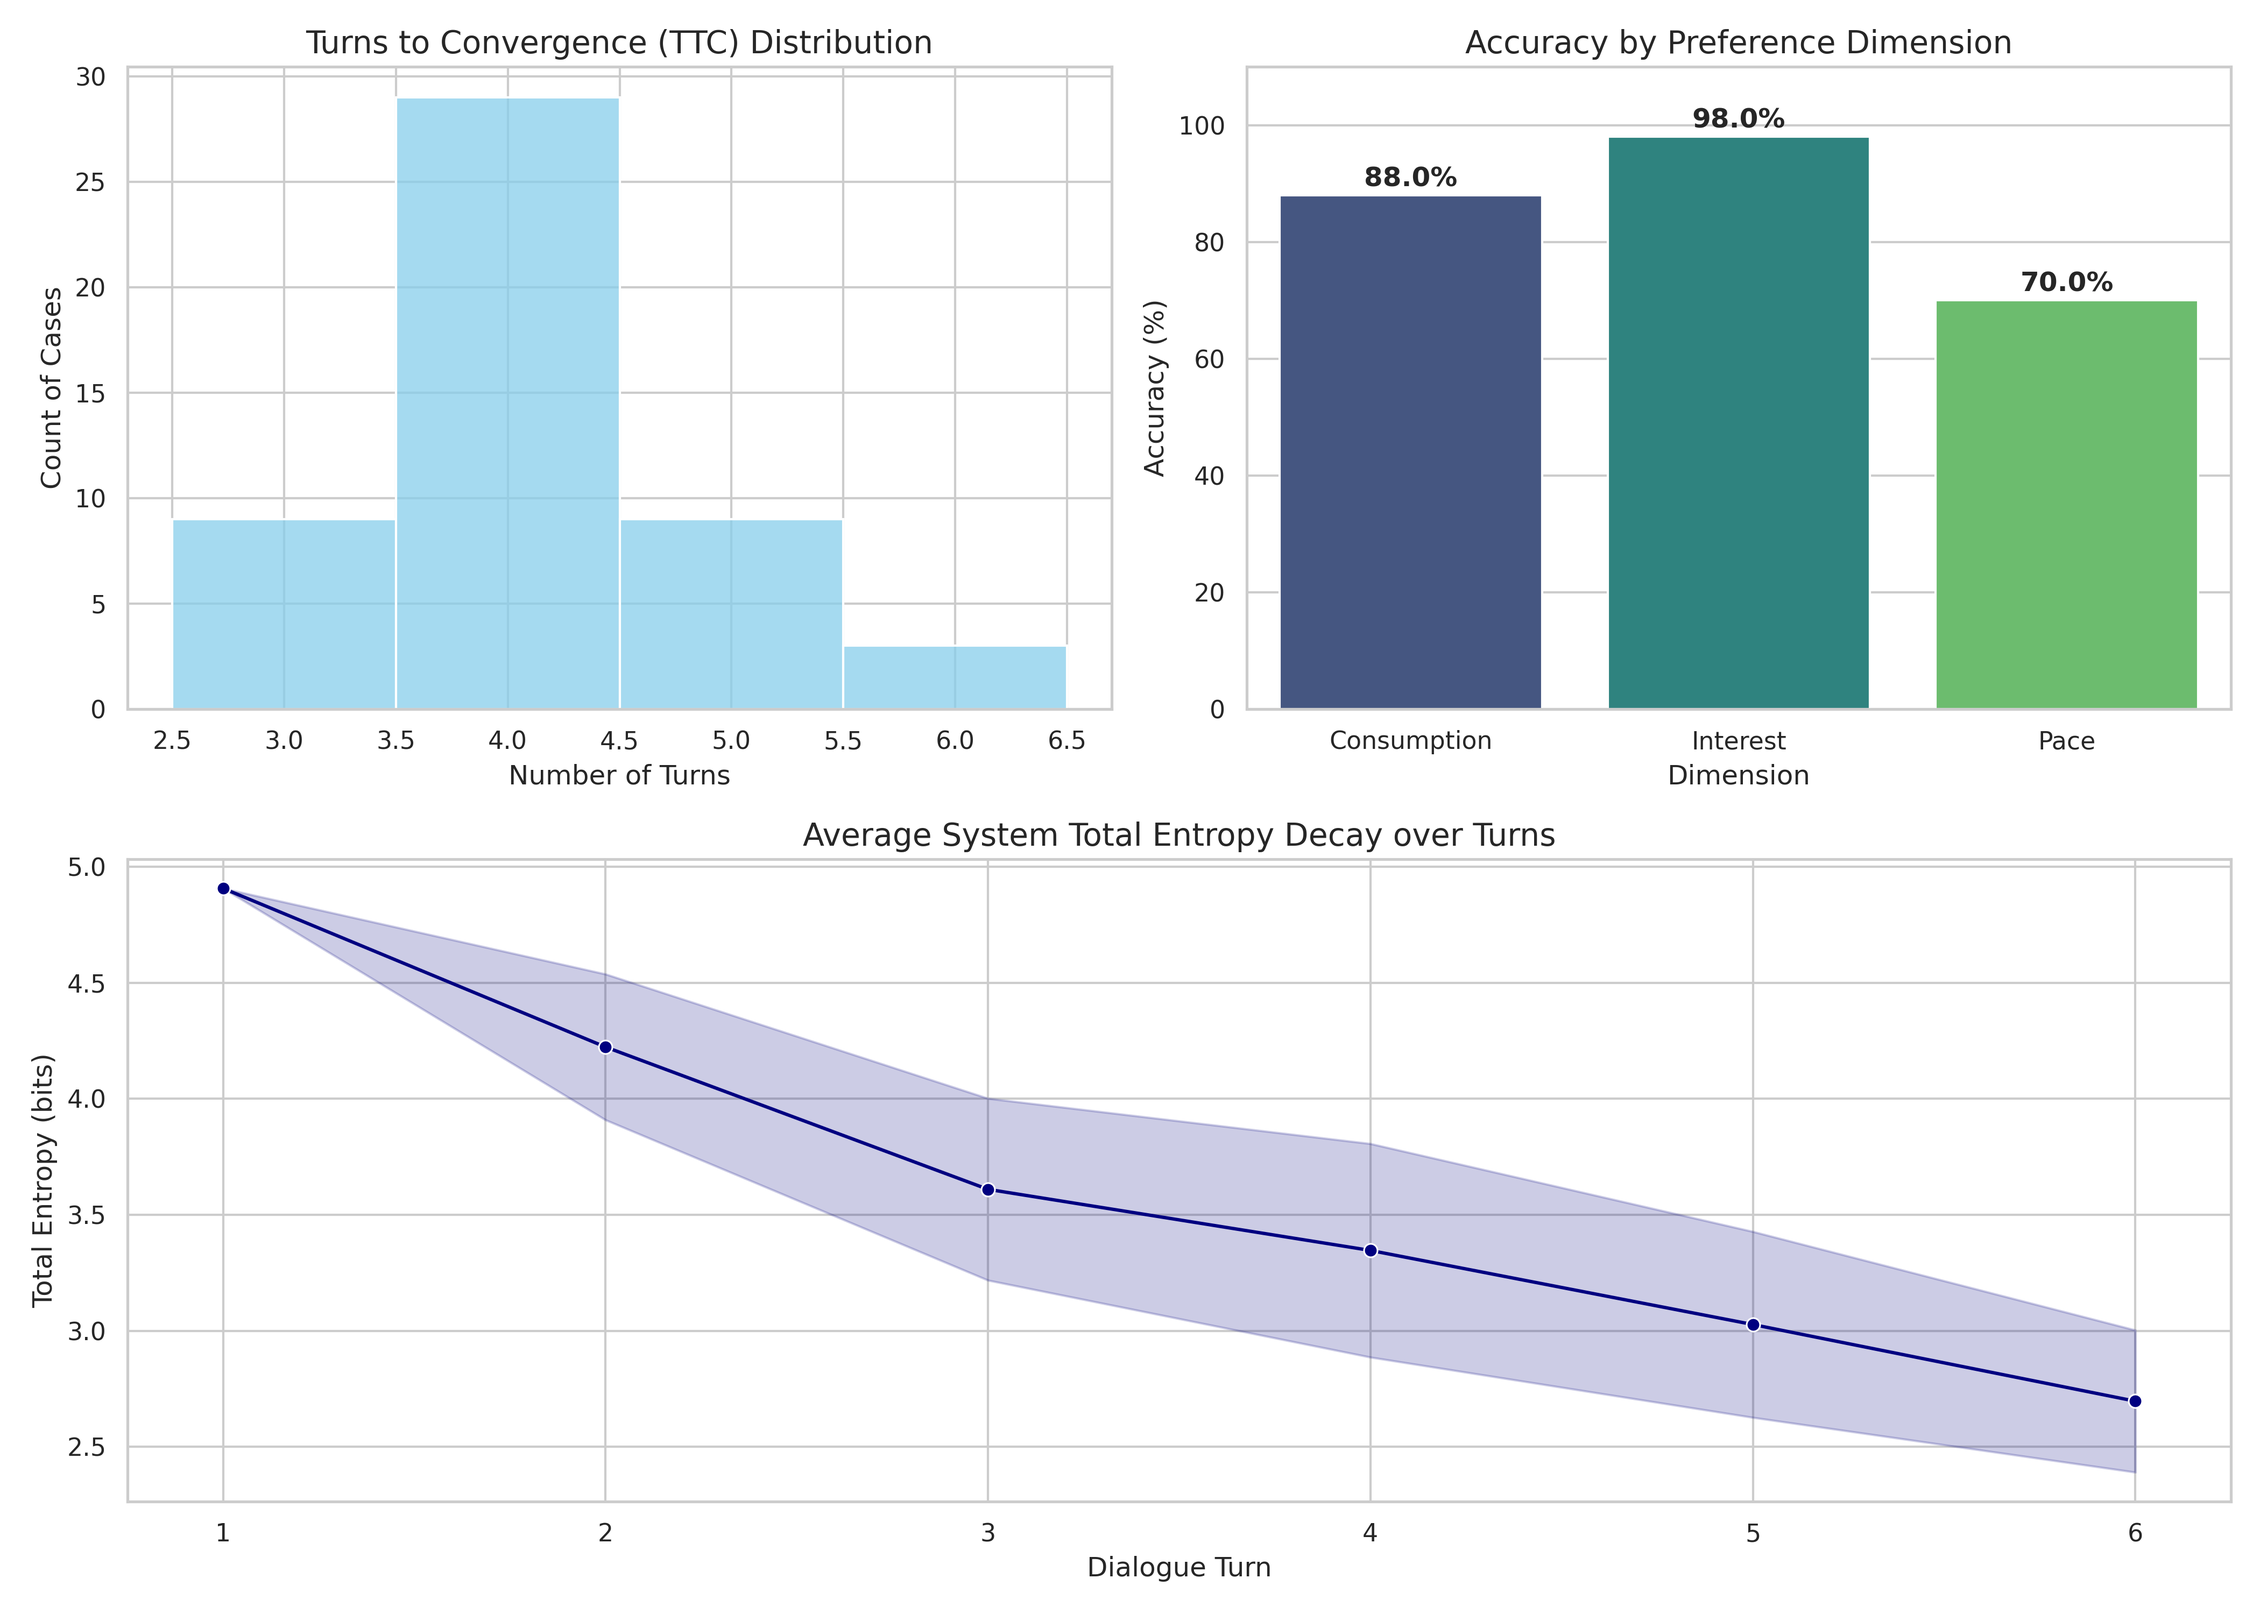
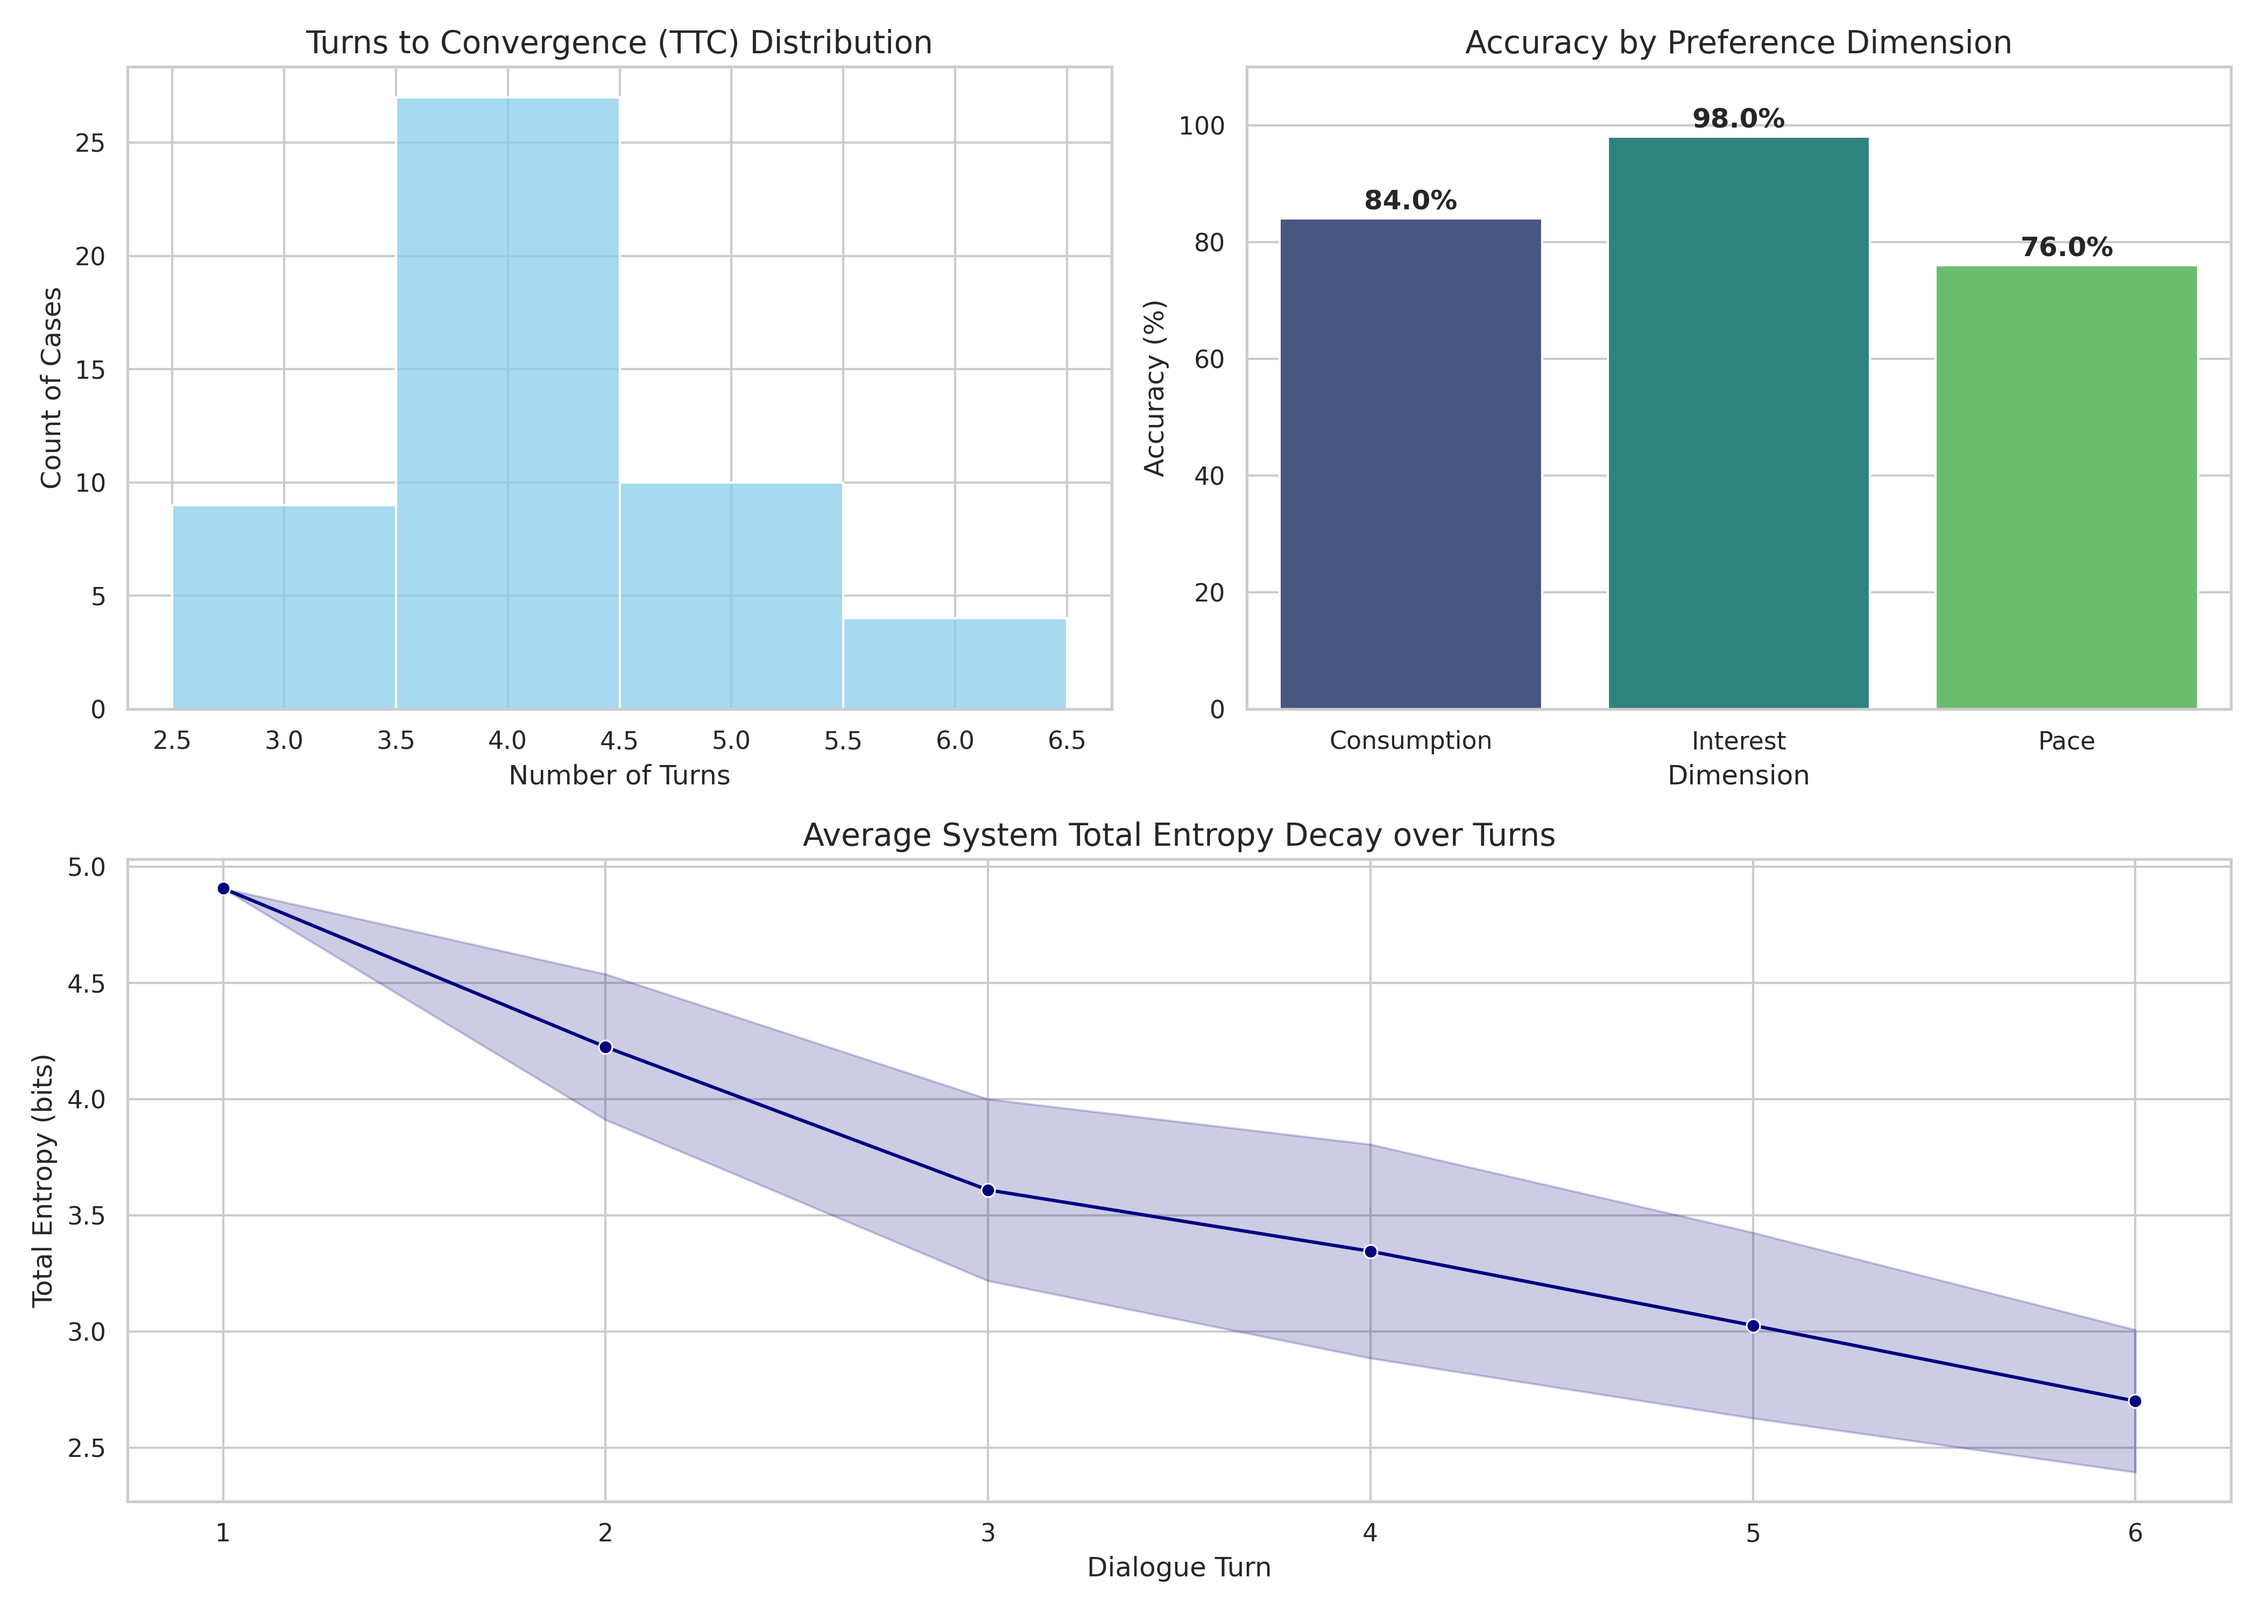
优化：DPI_eval实验数据分析绘表

diff --git a/evaluation/DPI_eval/advanced_analysis.py b/evaluation/DPI_eval/advanced_analysis.py
@@ -1,0 +1,166 @@
+# -*- coding: utf-8 -*-
+import os
+import json
+import pandas as pd
+import numpy as np
+import matplotlib.pyplot as plt
+import seaborn as sns
+import re
+
+# --- Path Configuration ---
+current_dir = os.path.dirname(os.path.abspath(__file__))
+LOGS_ROOT = os.path.join(current_dir, "logs")
+GT_DATA_PATH = os.path.join(current_dir, "data", "dpi_me_test_cases.json")
+OUTPUT_DIR = os.path.join(current_dir, "analysis_report")
+os.makedirs(OUTPUT_DIR, exist_ok=True)
+
+plt.switch_backend('agg')
+sns.set_theme(style="white")
+
+def calculate_csr(uid, gt_info, log_path):
+    """计算约束满足率 (CSR)"""
+    constraints_file = os.path.join(log_path, "constraints_log.json")
+    if not os.path.exists(constraints_file):
+        return 0.0
+    
+    try:
+        with open(constraints_file, 'r', encoding='utf-8') as f:
+            extracted_data = json.load(f)
+        
+        all_extracted_text = ""
+        for turn in extracted_data:
+            all_extracted_text += " ".join(turn.get("constraints", [])) + " "
+        
+        checks = {
+            "city": str(gt_info['target_city']),
+            "days": str(gt_info['days']),
+            "people": str(gt_info['people_count'])
+        }
+        
+        satisfied = 0
+        for key, val in checks.items():
+            if val in all_extracted_text:
+                satisfied += 1
+        return satisfied / len(checks)
+    except:
+        return 0.0
+
+def run_advanced_analysis():
+    # 1. 加载 Ground Truth 数据
+    if not os.path.exists(GT_DATA_PATH):
+        print(f"❌ Error: Ground Truth file not found at {GT_DATA_PATH}")
+        return
+
+    with open(GT_DATA_PATH, 'r', encoding='utf-8') as f:
+        gt_cases = {c['uid']: c for c in json.load(f)}
+
+    if not os.path.exists(LOGS_ROOT):
+        print(f"❌ Error: Logs directory not found at {LOGS_ROOT}")
+        return
+
+    case_dirs = [d for d in os.listdir(LOGS_ROOT) if os.path.isdir(os.path.join(LOGS_ROOT, d))]
+    print(f"🔎 Found {len(case_dirs)} potential case folders in logs.")
+
+    metrics_list = []
+    conf_evolution_matrix = [] 
+
+    for uid in case_dirs:
+        if uid not in gt_cases:
+            continue
+        
+        case_path = os.path.join(LOGS_ROOT, uid)
+        evo_json = os.path.join(case_path, "persona_evolution.json")
+        sum_txt = os.path.join(case_path, "eval_summary.txt")
+        
+        if not os.path.exists(evo_json) or not os.path.exists(sum_txt):
+            continue
+
+        # A. 计算 CSR
+        csr = calculate_csr(uid, gt_cases[uid]['ground_truth'], case_path)
+
+        # B. 提取置信度演化
+        try:
+            with open(evo_json, 'r', encoding='utf-8') as f:
+                evo_data = json.load(f)
+            gt_labels = gt_cases[uid]['ground_truth']['persona']
+            case_conf_history = []
+            for turn_idx in range(1, 9):
+                turn_key = str(turn_idx)
+                if turn_key in evo_data:
+                    conf_sum = 0
+                    for dim in ["Consumption", "Interest", "Pace"]:
+                        target_label = gt_labels[dim]
+                        dist = evo_data[turn_key].get(dim, {}).get("distribution", {})
+                        conf_sum += dist.get(target_label, 0.33) # 默认 1/3 均匀分布
+                    case_conf_history.append(conf_sum / 3)
+                else:
+                    last_val = case_conf_history[-1] if case_conf_history else 0.33
+                    case_conf_history.append(last_val)
+            conf_evolution_matrix.append(case_conf_history)
+        except Exception as e:
+            print(f"⚠ Error parsing evolution for {uid}: {e}")
+            continue
+
+        # C. 提取收敛轮次和准确率 (兼容中英文)
+        try:
+            with open(sum_txt, 'r', encoding='utf-8') as f:
+                content = f.read()
+                # 兼容 "收敛轮次" 或 "Turns"
+                t_match = re.search(r'(?:收敛轮次|Turns|turn|收敛轮次)\s*[:：]\s*(\d+)', content)
+                turns = int(t_match.group(1)) if t_match else 8
+                
+                # 兼容 "准确率" 或 "Accuracy"
+                a_match = re.search(r'(?:准确率|Accuracy|偏好推理准确率)\s*[:：]\s*(\d+(?:\.\d+)?)', content)
+                acc = float(a_match.group(1)) / 100 if a_match else 0.0
+
+            metrics_list.append({"uid": uid, "ttc": turns, "accuracy": acc, "csr": csr})
+        except:
+            continue
+
+    if not metrics_list:
+        print("❌ No valid experiment data parsed. Check if eval_summary.txt is empty or mismatched.")
+        return
+
+    # --- Data Aggregation ---
+    df = pd.DataFrame(metrics_list)
+    avg_accuracy = df['accuracy'].mean()
+    avg_ttc = df['ttc'].mean()
+    avg_csr = df['csr'].mean()
+    conv_efficiency = avg_accuracy / avg_ttc if avg_ttc > 0 else 0
+
+    print("\n" + "="*50)
+    print("📈 Advanced Performance Report")
+    print("-" * 50)
+    print(f"Test Cases Processed            : {len(df)}")
+    print(f"Overall Accuracy (Persona)      : {avg_accuracy:.2%}")
+    print(f"Constraint Satisfaction (CSR)   : {avg_csr:.2%}")
+    print(f"Avg Turns to Convergence (TTC)  : {avg_ttc:.2f} turns")
+    print(f"Convergence Efficiency (Acc/TTC): {conv_efficiency:.4f}")
+    print("="*50)
+
+    # --- Plot 1: Heatmap ---
+    plt.figure(figsize=(12, 8))
+    heat_df = pd.DataFrame(conf_evolution_matrix, columns=[f"Turn {i}" for i in range(1, 9)])
+    heat_df = heat_df.sort_values(by=f"Turn 8", ascending=False)
+    sns.heatmap(heat_df, cmap="YlGnBu", annot=False, cbar_kws={'label': 'Confidence'})
+    plt.title("System Confidence Evolution Heatmap (EN)", fontsize=14)
+    plt.xlabel("Dialogue Turns")
+    plt.ylabel("Test Cases")
+    plt.savefig(os.path.join(OUTPUT_DIR, "confidence_heatmap.png"), dpi=300)
+
+    # --- Plot 2: Bar Chart ---
+    plt.figure(figsize=(8, 6))
+    summary_data = {"Metric": ["Accuracy", "CSR"], "Score": [avg_accuracy * 100, avg_csr * 100]}
+    ax = sns.barplot(x="Metric", y="Score", data=summary_data, palette="viridis")
+    plt.ylim(0, 110)
+    for p in ax.patches:
+        ax.annotate(f'{p.get_height():.1f}%', (p.get_x() + p.get_width() / 2., p.get_height()),
+                    ha='center', va='center', fontsize=12, color='black', xytext=(0, 8),
+                    textcoords='offset points', fontweight='bold')
+    plt.title("Overall Accuracy vs. Constraint Satisfaction")
+    plt.savefig(os.path.join(OUTPUT_DIR, "overall_performance.png"), dpi=300)
+
+    print(f"\n✅ Done! Check results in: {OUTPUT_DIR}")
+
+if __name__ == "__main__":
+    run_advanced_analysis()

diff --git a/evaluation/DPI_eval/tree.md b/evaluation/DPI_eval/tree.md
@@ -201,8 +201,12 @@ for case in test_cases:
 **你需要我帮你写一段基础的“汇总统计并画出平均熵减曲线”的 Python 脚本框架吗？**
 
 
-🏆 实验汇总 ==============================
-📊 已测数量: 50
-🎯 平均准确率: 78.67%
-⏱  平均收敛轮次: 4.24
+==================================================
+📈 Advanced Performance Report
+--------------------------------------------------
+Test Cases Processed            : 50
+Overall Accuracy (Persona)      : 86.01%
+Constraint Satisfaction (CSR)   : 100.00%
+Avg Turns to Convergence (TTC)  : 4.18 turns
+Convergence Efficiency (Acc/TTC): 0.2058
 ==================================================
